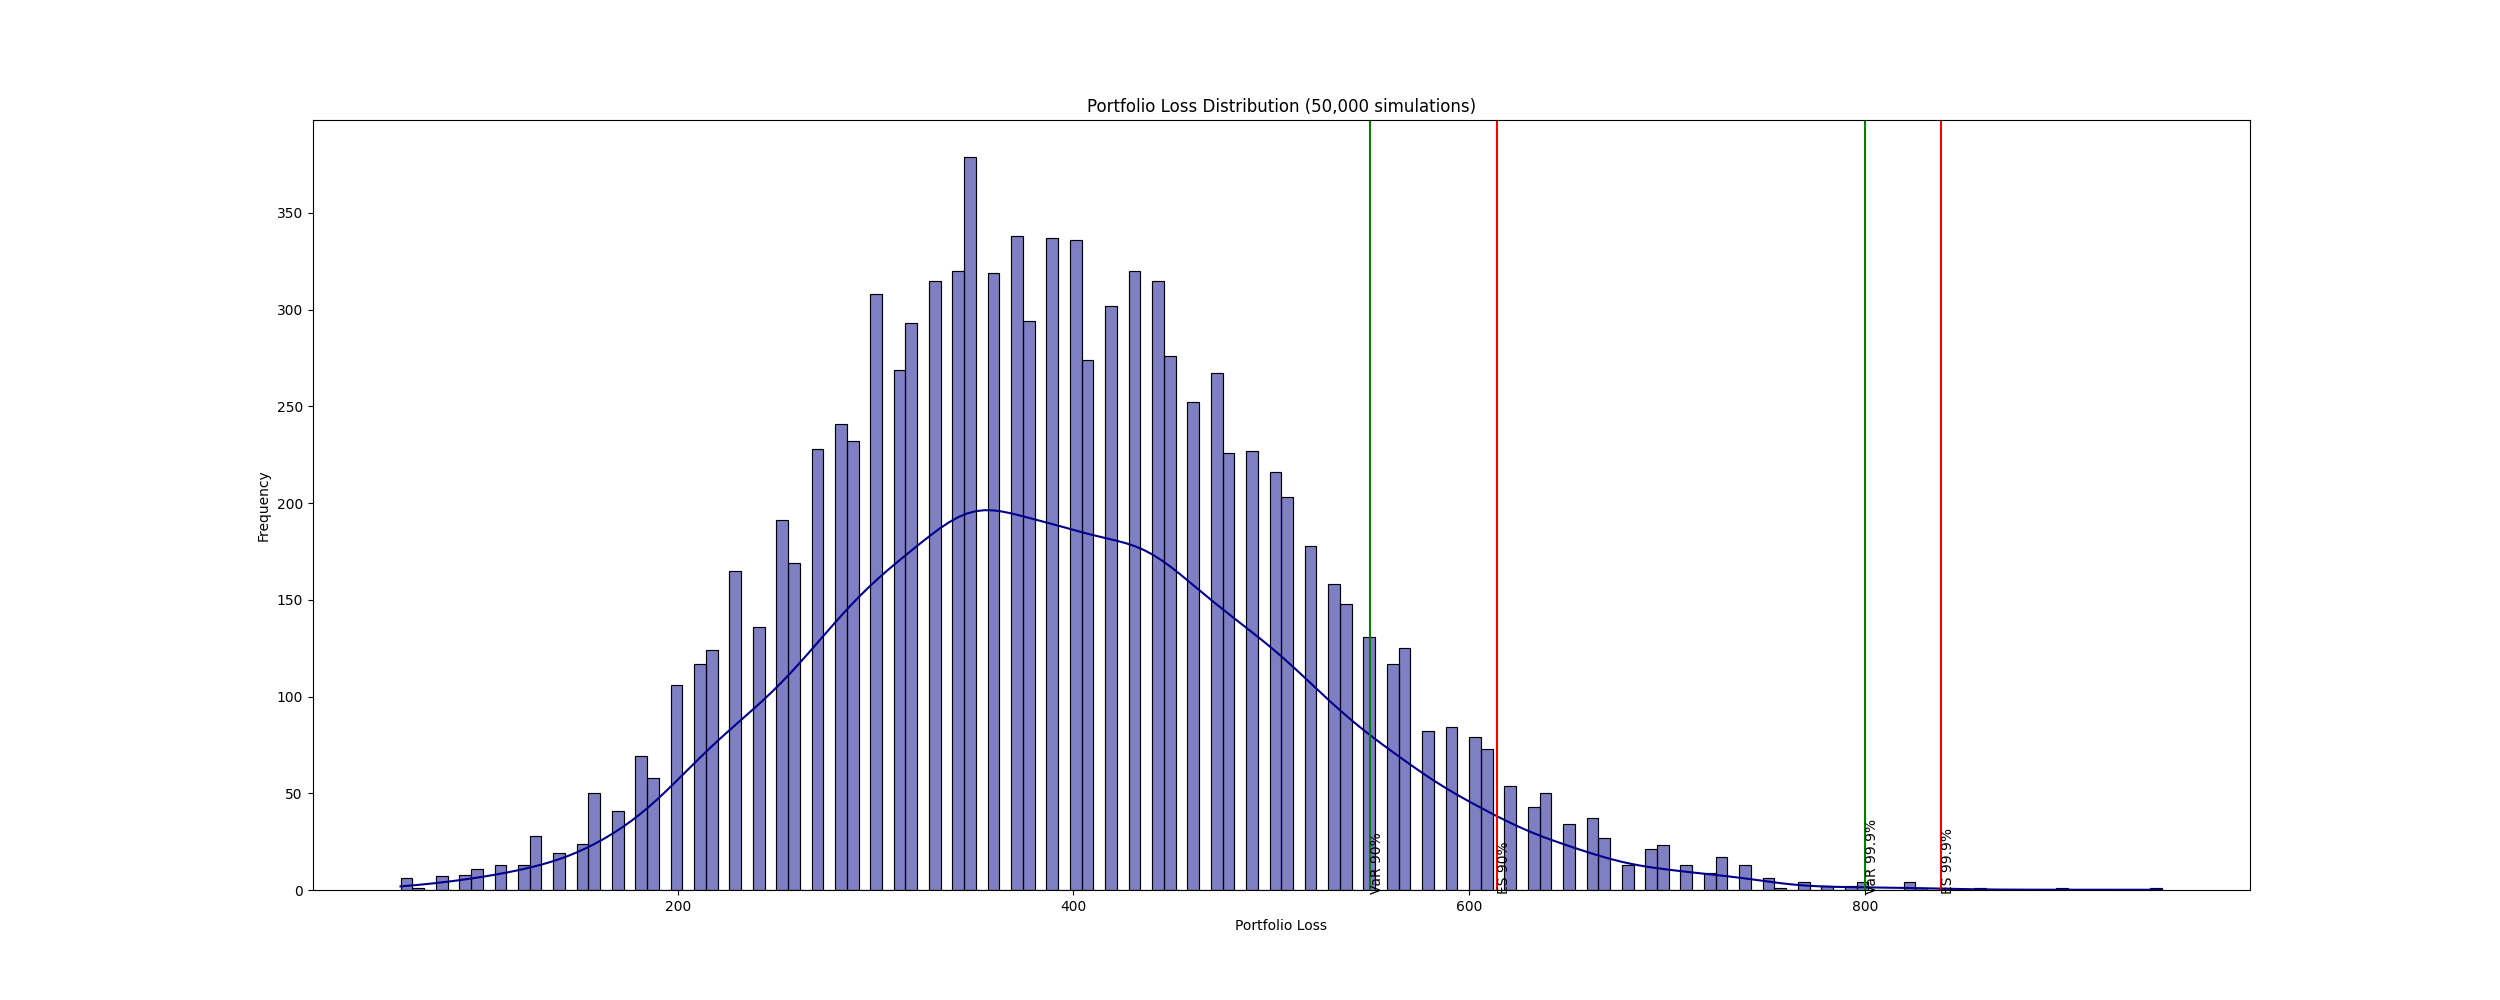
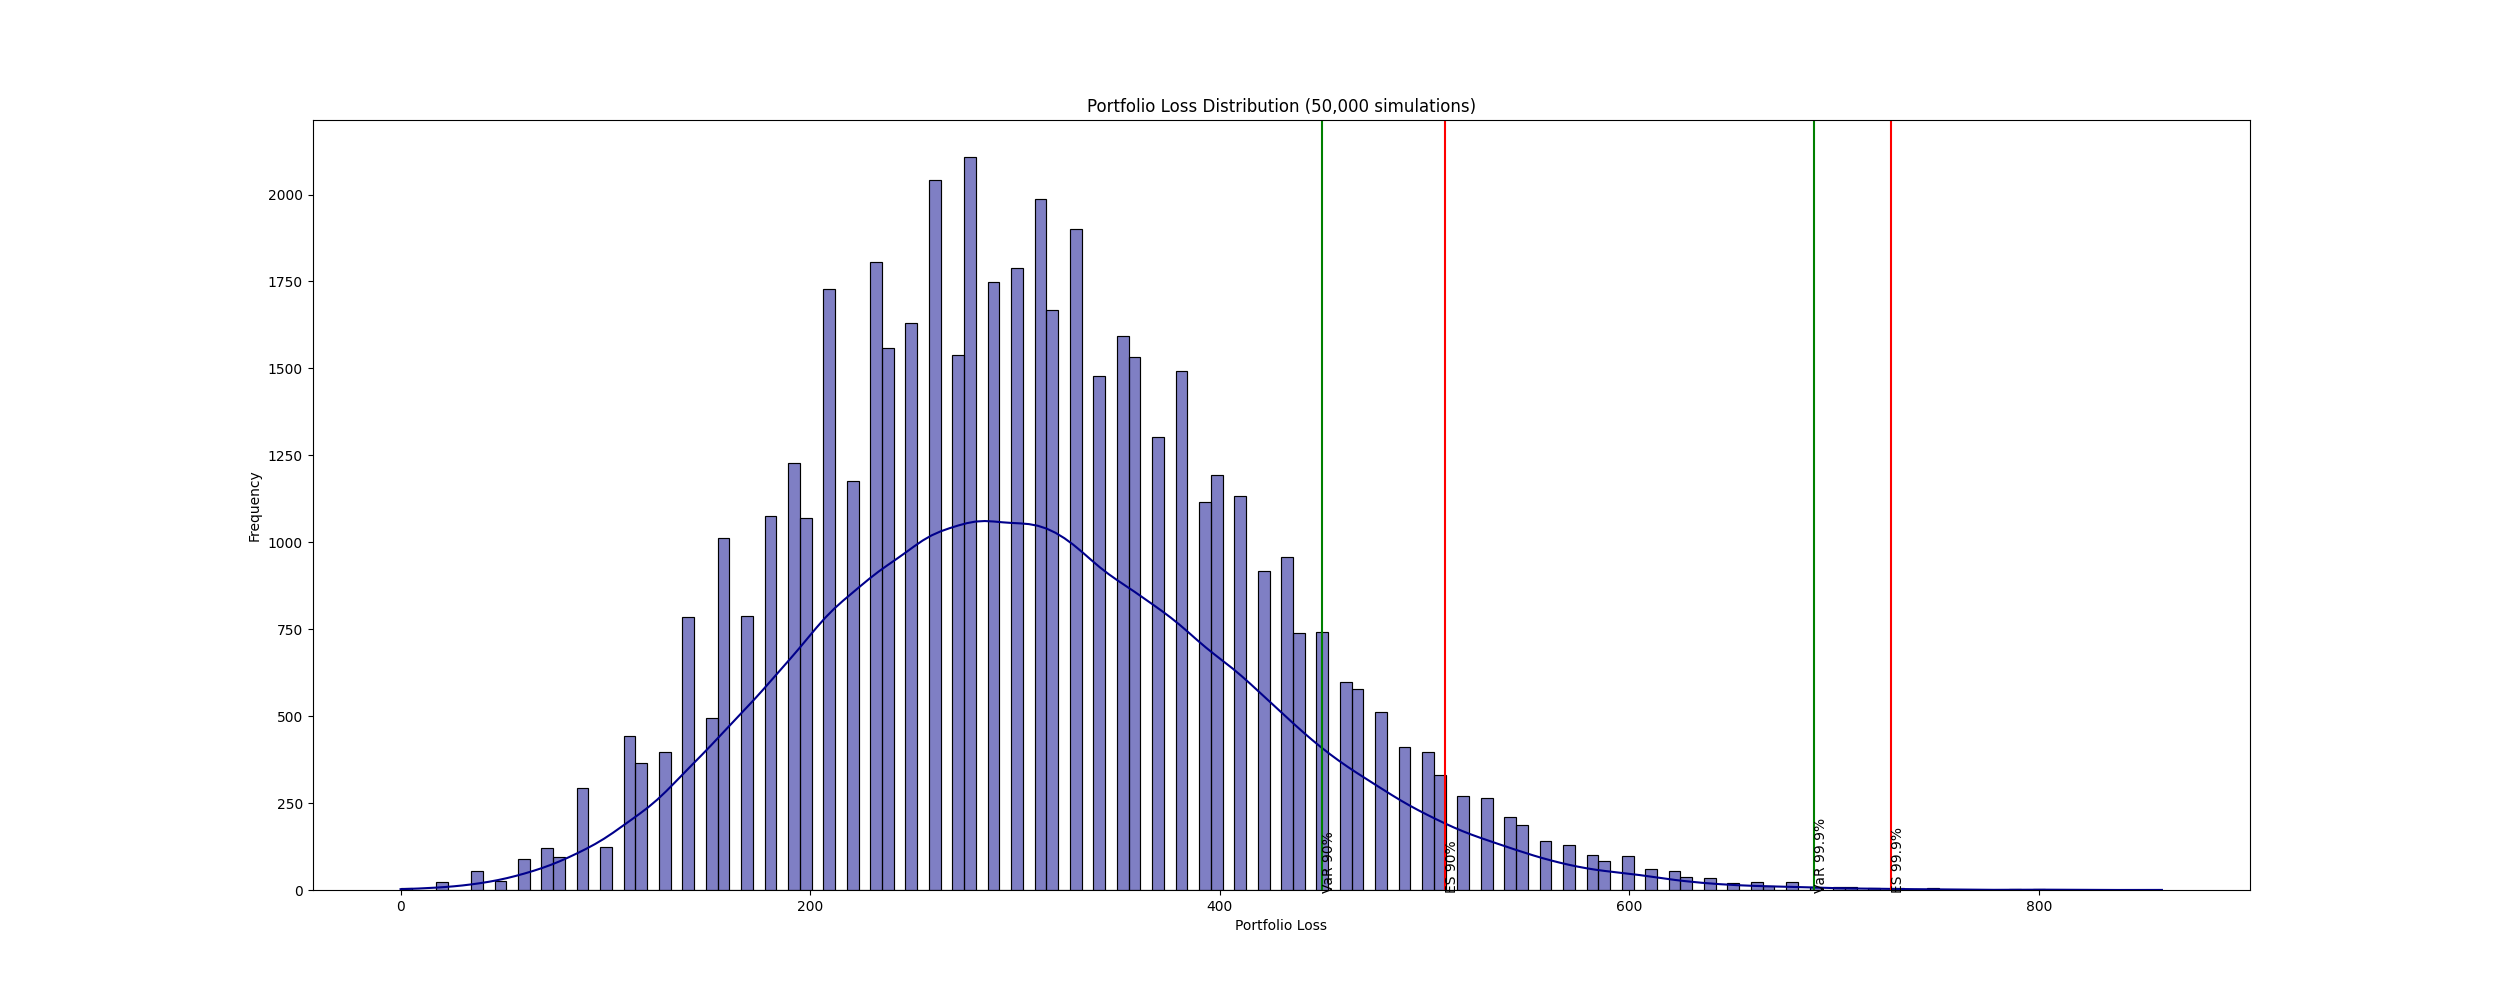
Update 50, 000 simulations

Changed region(s): [[0.156, 0.217, 0.78, 0.899], [0.0936, 0.496, 0.1248, 0.558], [0.0936, 0.186, 0.1248, 0.217]]

diff --git a/code/single_factor_model.py b/code/single_factor_model.py
@@ -24,7 +24,7 @@ df = pd.read_csv('export/factor_sensitivities.csv', index_col=0)
 # Monte Carlo simulation
 PORTFOLIO_LOSS = list()
 Z = normal(loc=0.0, scale=1.0)
-simulations = 10_000
+simulations = 50_000
 
 for i in range(simulations):
 
